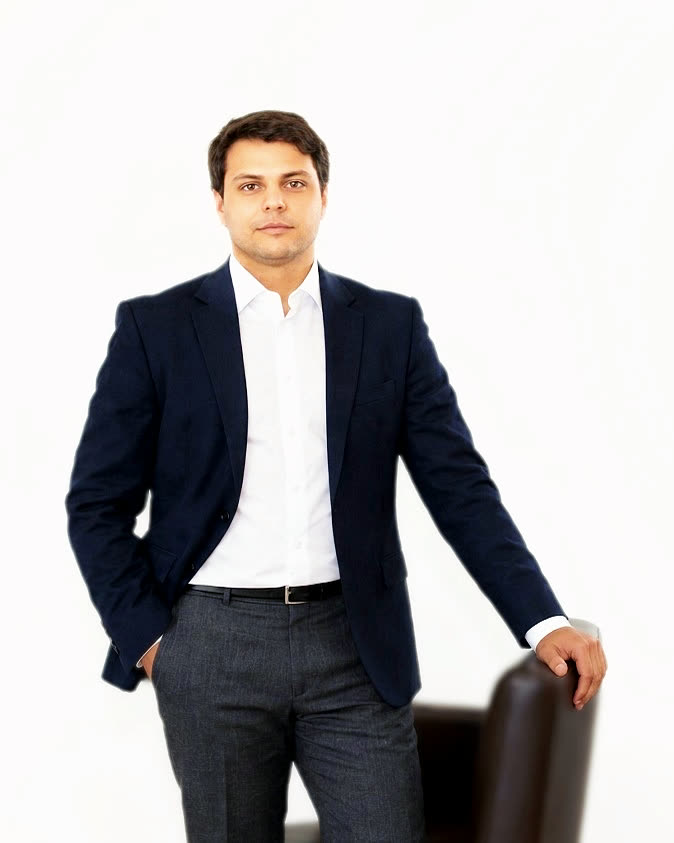
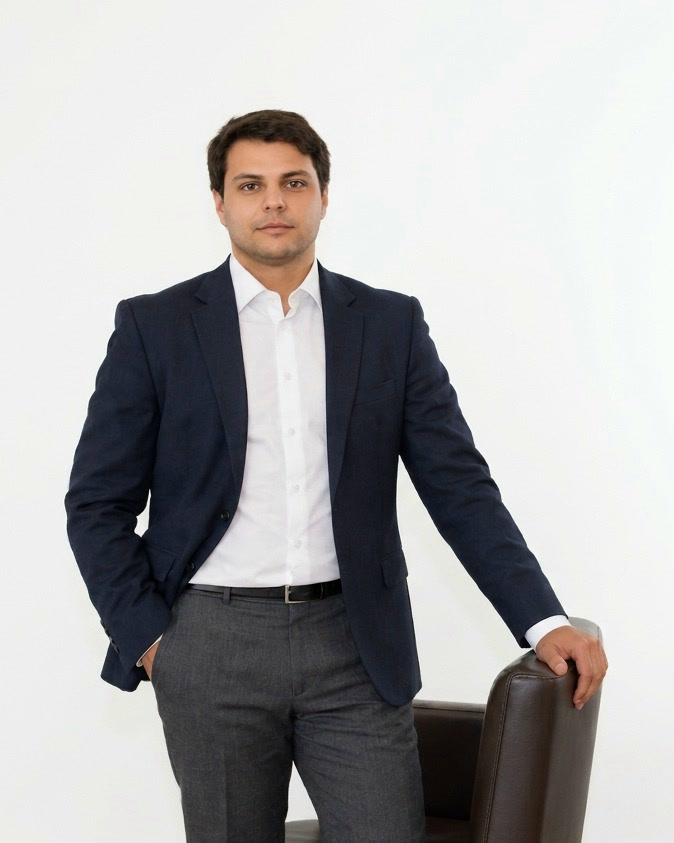
Diogo: foto original, sem tratamento de cor nem efeitos

diff --git a/equipa.html b/equipa.html
@@ -60,7 +60,7 @@
   <div class="hx-media fluted v4"></div>
 </section>
 <section class="light section">
-  <div class="wrap"><div class="team-grid"><a class="tcard" href="equipa-joao.html"><figure class="photo fluted has-photo"><img class="ph-img" src="assets/img/fotos/equipa-joao.jpg?v=6" alt="João Portas Fontes" loading="lazy" decoding="async" width="1100" height="1100"></figure><div class="tcard-b"><p class="role" data-i18n="team.role">Sócio fundador</p><h2>João Portas Fontes</h2><div class="chips" data-i18n="team.joao.chips"><span>Penal</span><span>Família</span><span>Migração</span><span>Civil</span></div><span class="tmore"><span data-i18n="team.view">Ver perfil</span><svg viewBox="0 0 16 16" fill="none" stroke="currentColor" stroke-width="1.5" aria-hidden="true"><path d="M5 11L11 5M6 5h5v5"/></svg></span></div></a><a class="tcard" href="equipa-diogo.html"><figure class="photo fluted has-photo"><img class="ph-img" src="assets/img/fotos/equipa-diogo.jpg?v=6" alt="Diogo Lopes Rodrigues" loading="lazy" decoding="async" width="1100" height="1100"></figure><div class="tcard-b"><p class="role" data-i18n="team.role">Sócio fundador</p><h2>Diogo Lopes Rodrigues</h2><div class="chips" data-i18n="team.diogo.chips"><span>Societário</span><span>Trabalho</span><span>Fiscal</span><span>Sucessões</span></div><span class="tmore"><span data-i18n="team.view">Ver perfil</span><svg viewBox="0 0 16 16" fill="none" stroke="currentColor" stroke-width="1.5" aria-hidden="true"><path d="M5 11L11 5M6 5h5v5"/></svg></span></div></a></div></div>
+  <div class="wrap"><div class="team-grid"><a class="tcard" href="equipa-joao.html"><figure class="photo fluted has-photo"><img class="ph-img" src="assets/img/fotos/equipa-joao.jpg?v=6" alt="João Portas Fontes" loading="lazy" decoding="async" width="1100" height="1100"></figure><div class="tcard-b"><p class="role" data-i18n="team.role">Sócio fundador</p><h2>João Portas Fontes</h2><div class="chips" data-i18n="team.joao.chips"><span>Penal</span><span>Família</span><span>Migração</span><span>Civil</span></div><span class="tmore"><span data-i18n="team.view">Ver perfil</span><svg viewBox="0 0 16 16" fill="none" stroke="currentColor" stroke-width="1.5" aria-hidden="true"><path d="M5 11L11 5M6 5h5v5"/></svg></span></div></a><a class="tcard" href="equipa-diogo.html"><figure class="photo fluted has-photo"><img class="ph-img" src="assets/img/fotos/equipa-diogo.jpg?v=7" alt="Diogo Lopes Rodrigues" loading="lazy" decoding="async" width="1100" height="1100"></figure><div class="tcard-b"><p class="role" data-i18n="team.role">Sócio fundador</p><h2>Diogo Lopes Rodrigues</h2><div class="chips" data-i18n="team.diogo.chips"><span>Societário</span><span>Trabalho</span><span>Fiscal</span><span>Sucessões</span></div><span class="tmore"><span data-i18n="team.view">Ver perfil</span><svg viewBox="0 0 16 16" fill="none" stroke="currentColor" stroke-width="1.5" aria-hidden="true"><path d="M5 11L11 5M6 5h5v5"/></svg></span></div></a></div></div>
 </section>
 </main>
 <footer class="foot">

diff --git a/equipa-diogo.html b/equipa-diogo.html
@@ -54,7 +54,7 @@
 <main>
 <section class="light section pf-page">
   <div class="wrap"><p class="hx-eye pf-crumb"><a href="index.html" data-i18n="nav.index">Início</a><span aria-hidden="true">/</span><a href="equipa.html" data-i18n="equipa.crumb">Equipa</a><span aria-hidden="true">/</span><span>Diogo Lopes Rodrigues</span></p><article class="profile" id="diogo">
-      <figure class="photo fluted has-photo"><img class="ph-img" src="assets/img/fotos/perfil-diogo.jpg?v=6" alt="Diogo Lopes Rodrigues" decoding="async" width="674" height="843"></figure>
+      <figure class="photo fluted has-photo"><img class="ph-img" src="assets/img/fotos/perfil-diogo.jpg?v=7" alt="Diogo Lopes Rodrigues" decoding="async" width="674" height="843"></figure>
       <div>
         <p class="role" data-i18n="team.role">Sócio fundador</p>
         <h1>Diogo Lopes Rodrigues</h1>
